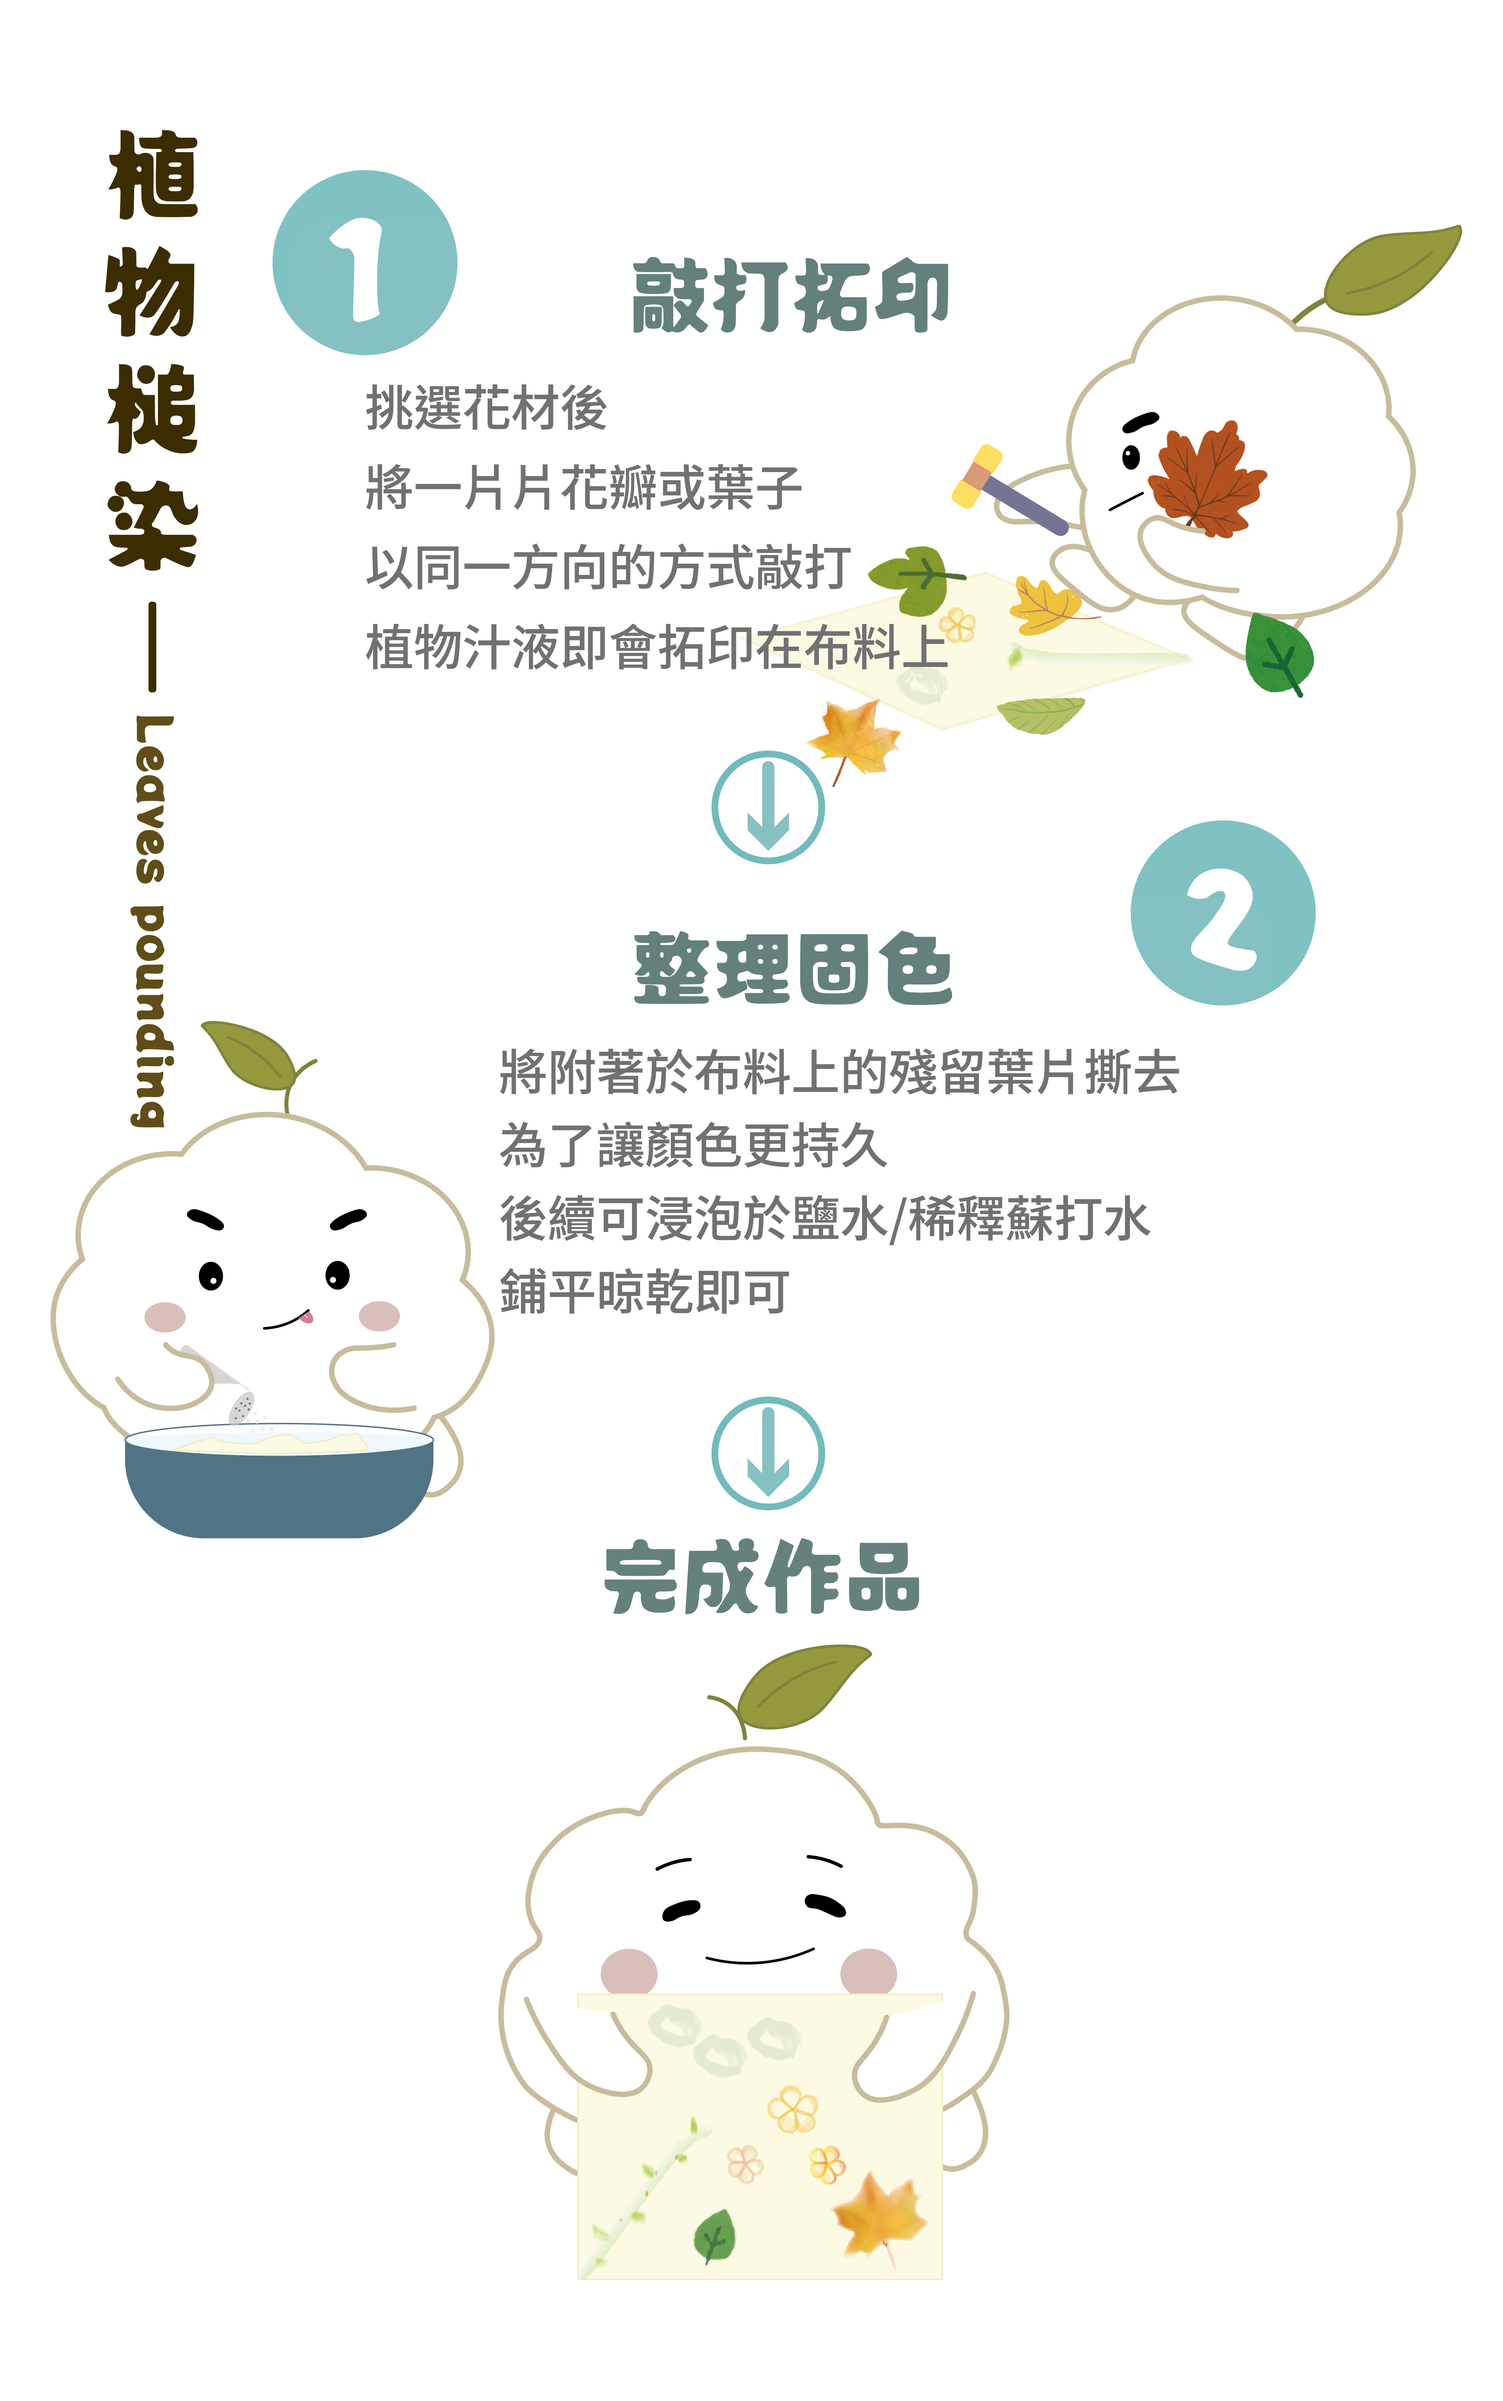
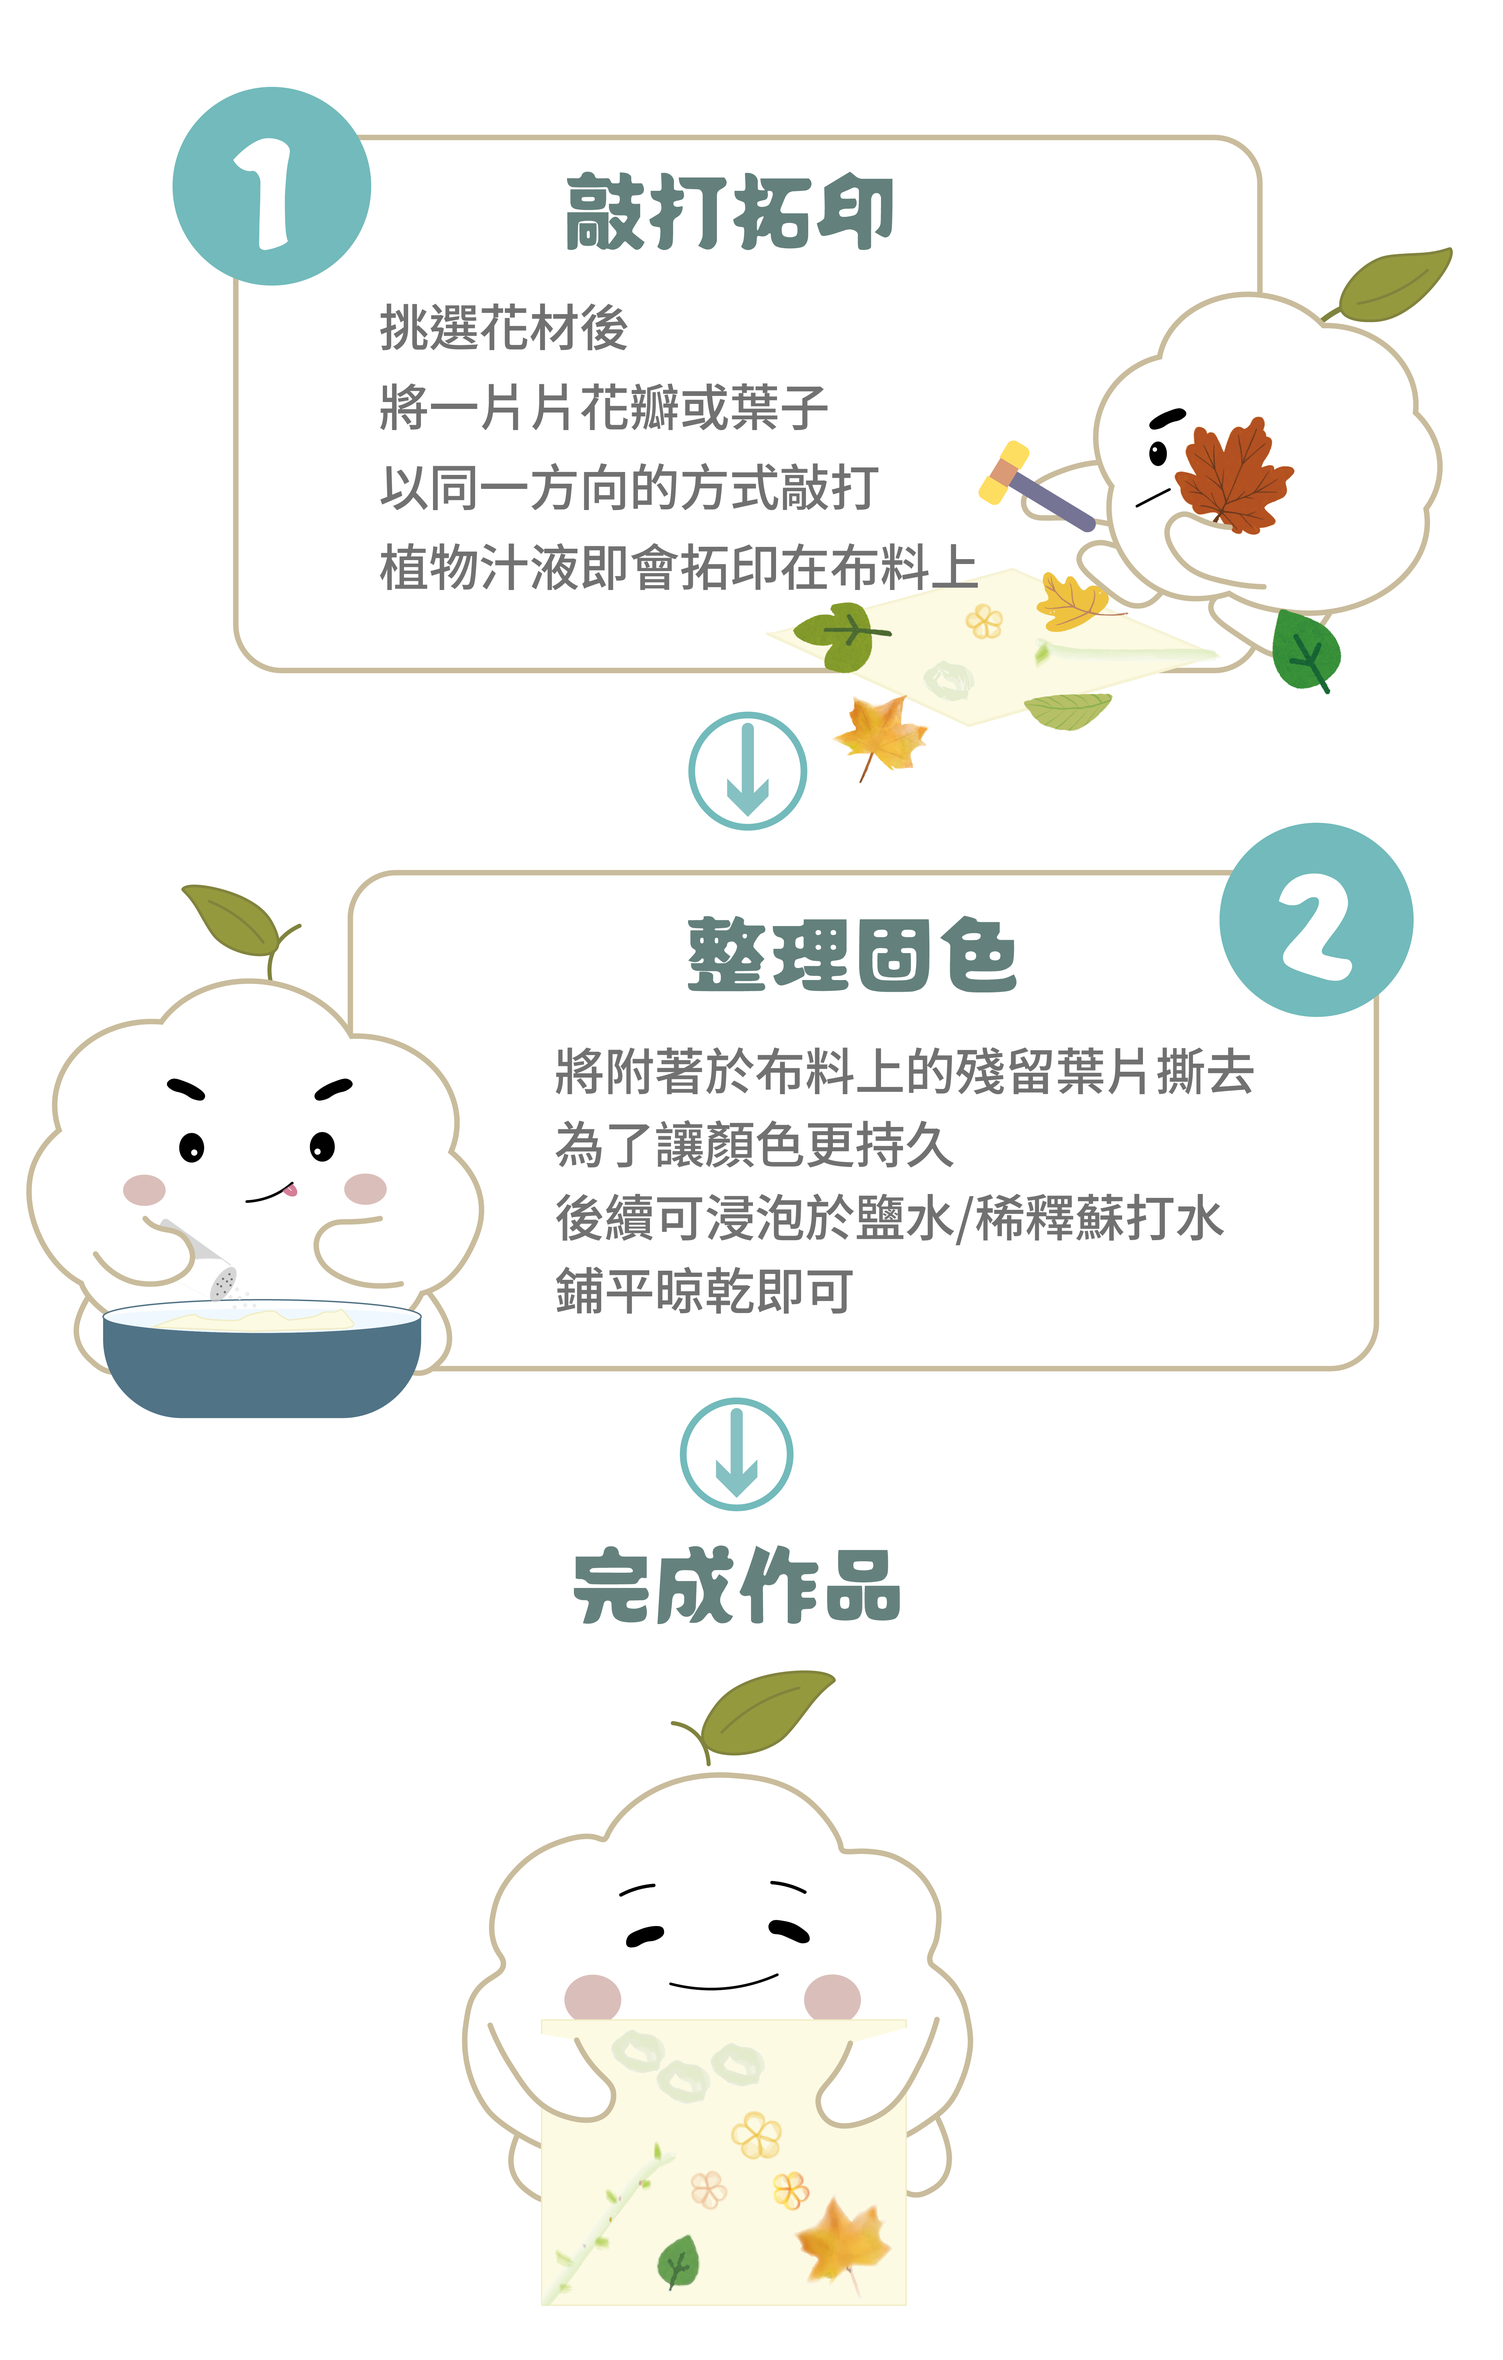
image new

diff --git a/config.js b/config.js
@@ -10,7 +10,7 @@ window.BOOKING_CONFIG = {
   closedDates: [],
   experiencePhotos: { '手拉胚': 'images/pottery.jpg', '陶杯刻畫': 'images/cup.jpg', '植物槌染': 'images/plant.jpg' },
   // 支援 PNG、JPG、WebP 和動態 GIF，例如 'images/pottery-process.gif'。
-  processImages: { '手拉胚': '', '陶杯刻畫': '', '植物槌染': 'images/plant.png' }
+  processImages: { '手拉胚': 'image/pottery.png', '陶杯刻畫': 'image/cup.png', '植物槌染': 'images/plant.png' }
 };
 
 
